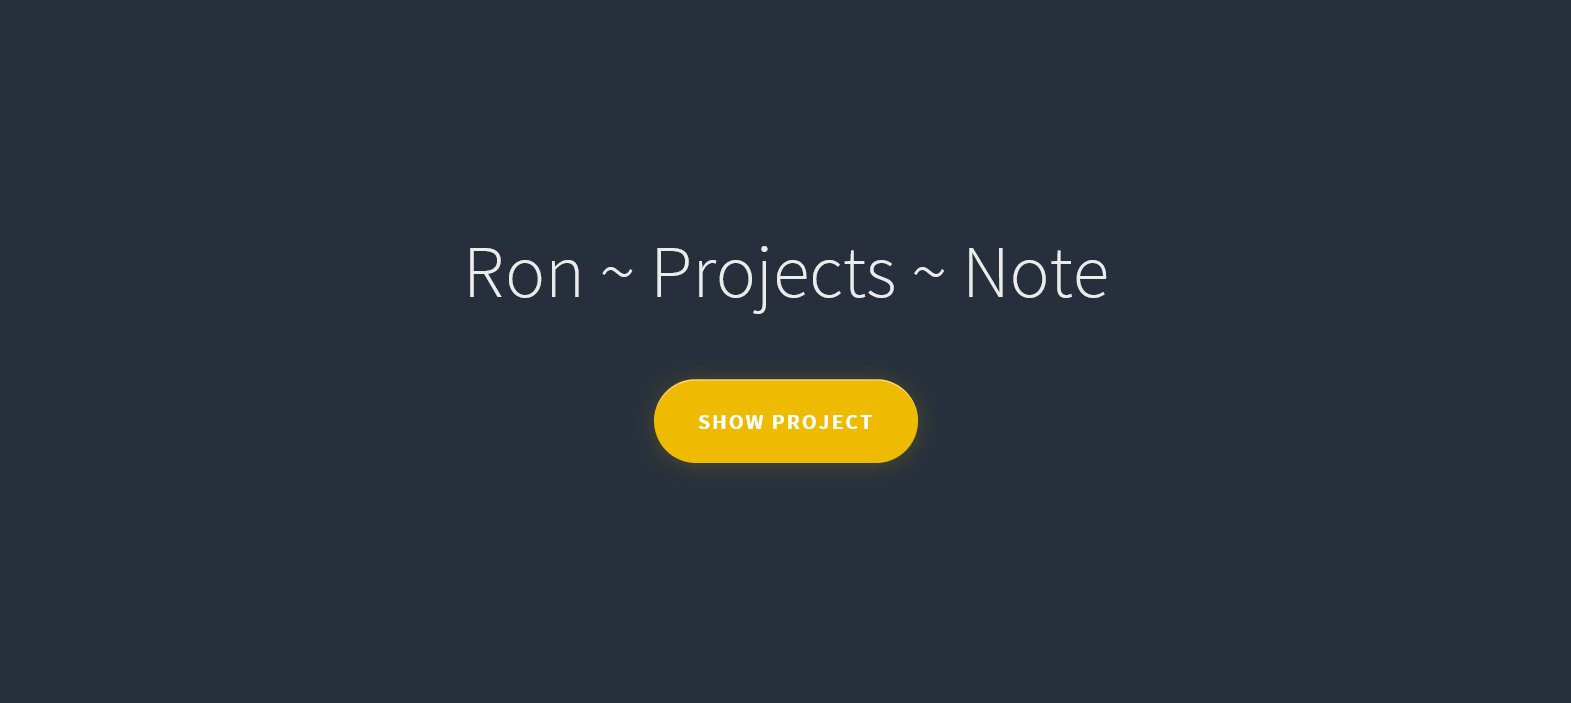
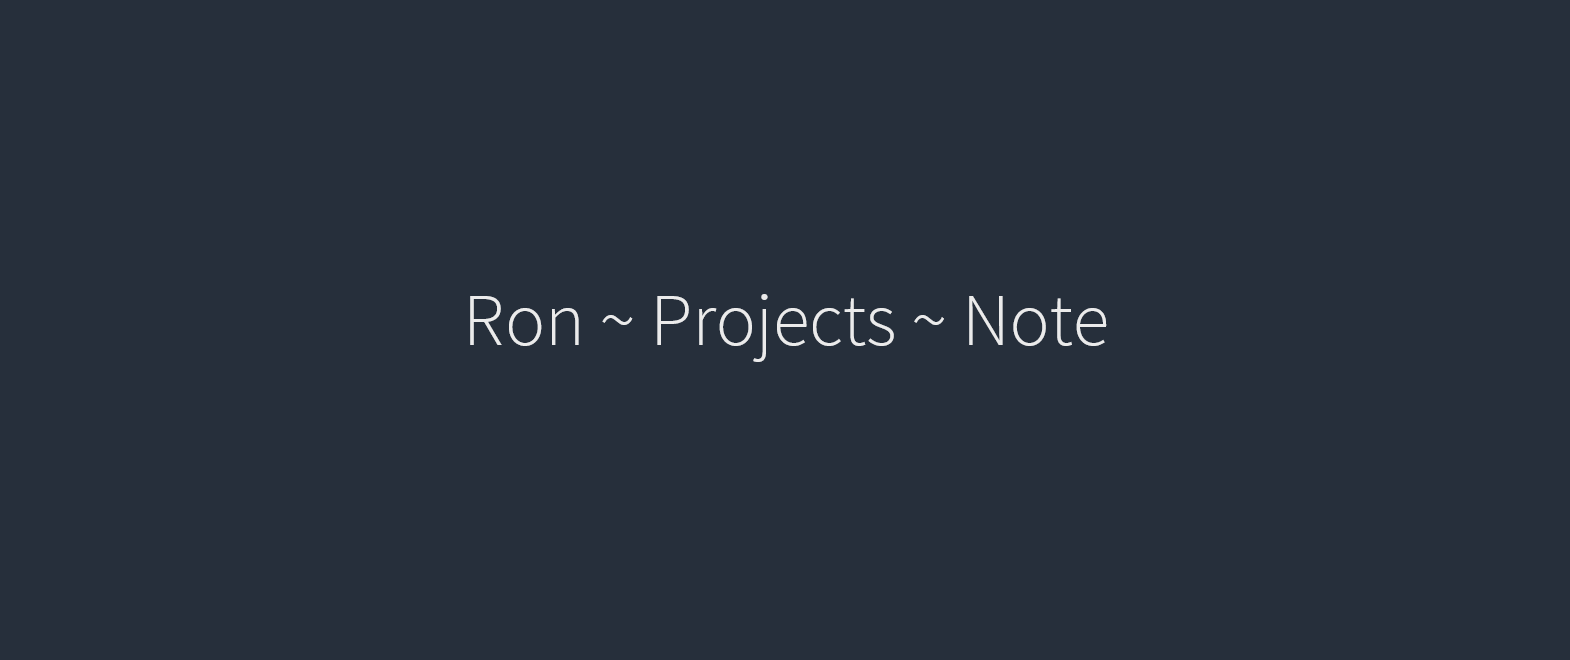
add email

Changed region(s): [[0.2809, 0.3333, 0.7178, 0.6667], [0.593, 0.4545, 0.7178, 0.5455], [0.2809, 0.4545, 0.3745, 0.5455]]

diff --git a/css/style.css b/css/style.css
@@ -18,13 +18,86 @@ html {
 body {
   font-size: 1.6rem;
   font-family: "Source Sans Pro", sans-serif;
-  color: #0f1926;
-  background-color: #ebebeb;
+  color: #262f3b;
 }
 
 a {
   color: #ffffff;
   text-decoration: none;
+}
+
+
+.tooltip {
+text-align: left;
+width: 160px;
+border-radius: 10px;
+font-size: small;
+background: #00beee ;
+top: 100%;
+color: white;
+display: block;
+left: -20px;
+opacity: 0;
+padding: 20px;
+pointer-events: none;
+position: absolute;
+-webkit-transform: translateY(10px);
+  -moz-transform: translateY(10px);
+  -ms-transform: translateY(10px);
+   -o-transform: translateY(10px);
+    transform: translateY(10px);
+-webkit-transition: all .25s ease-out;
+  -moz-transition: all .25s ease-out;
+  -ms-transition: all .25s ease-out;
+   -o-transition: all .25s ease-out;
+    transition: all .25s ease-out;
+-webkit-box-shadow: 2px 2px 6px rgba(0, 0, 0, 0.28);
+  -moz-box-shadow: 2px 2px 6px rgba(0, 0, 0, 0.28);
+  -ms-box-shadow: 2px 2px 6px rgba(0, 0, 0, 0.28);
+   -o-box-shadow: 2px 2px 6px rgba(0, 0, 0, 0.28);
+    box-shadow: 2px 2px 6px rgba(0, 0, 0, 0.28);
+}
+
+ .tooltip:before {
+bottom: -20px;
+content: " ";
+display: block;
+height: 200px;
+left: 0;
+position: absolute;
+}
+
+.tooltip:after {
+border-left: solid transparent 10px;
+border-right: solid transparent 10px;
+border-bottom: solid #00beee  10px;
+top: -10px;
+content: " ";
+height: 0;
+left: 50%;
+margin-left: -34px;
+position: absolute;
+width: 0;
+}
+
+.wrap:hover .tooltip {
+opacity: 1;
+pointer-events: auto;
+width: 160px;
+-webkit-transform: translateY(0px);
+  -moz-transform: translateY(0px);
+  -ms-transform: translateY(0px);
+   -o-transform: translateY(0px);
+    transform: translateY(0px);
+}
+
+/* IE can just show/hide with no transition */
+.lte8 .wrapper .tooltip {
+display: none;
+}
+
+.lte8 .wrapper:hover .tooltip {
+display: block;
 }
 
 
@@ -40,6 +113,7 @@ h1 > a:before {
   transform: scaleX(0);
   transition: .25s linear;
 }
+
 
 a.bt1:before {
   background: #eebb00;
@@ -82,7 +156,6 @@ column-count: 2;
   border: none;
   font-size: .9em;
   border-radius: 4px;
-  color: white;
 }
 
 /* -------------------------------- 
@@ -656,7 +729,6 @@ Project slider navigation
   left: 0;
   height: 60px;
   width: 4%;
-  background: url(../img/cd-arrow.svg) no-repeat center center;
   -webkit-transition: opacity 0.2s 0s, visibility 0s 0s;
   -moz-transition: opacity 0.2s 0s, visibility 0s 0s;
   transition: opacity 0.2s 0s, visibility 0s 0s;

diff --git a/index.html b/index.html
@@ -17,7 +17,13 @@
 <body>
 	<div class="cd-intro-block">
 		<div class="content-wrapper">
-			<h1>Ron ~ <a href="#0" data-action="show-projects" class="bt1">Projects</a> ~ <a href="note/index.html" class="bt2">Notes</a> </h1>			
+			<h1>
+			<span class="wrap">Ron
+				<span class="tooltip">contact:<br>ronwu@frontier.com
+				</span>
+			</span> ~ <a href="#0" data-action="show-projects" class="bt1">Projects</a> ~ <a href="note/index.html" class="bt2">Notes</a> </h1>		
+
+				
 
 		</div>
 	</div> <!-- .cd-intro-block -->
@@ -97,18 +103,18 @@ high_returns = recent_returns.percentile_between(90,100,mask=high_dollar_volume)
 		
 
 
-			<p>I have learned many advanced techniques and tried to incorporate them into the simple mean-reversion and momemtum algorithm:</p>
+			<p>I have learned many advanced techniques and tried to incorporate them into the simple mean-reversion and momemtum algorithm: </p>
 
 			<P>&#9658 Mechine Learning: <a href="https://psychsignal.com/" target="_blank">PsychSignal</a>'s stockTwits trader mood, run Twitter feed in <a href="https://alchemyapi.com/" target="_blank">Alchemy</a> api (NLP), chart/data pattern recognition &amp categorization (supervised/unsupervised learning).</P>
 
-			<p>&#9658 Numerical Method: modern portfolio theory, dynamic mode decomposition (PCA), random matrix theory.
+			<p>&#9658 Numerical Methods: modern portfolio theory, dynamic mode decomposition (PCA), random matrix theory.
 			</p>
 
 			<p>&#9658 Web/App design: experienced using Python, C++, C#, R, SQL, and JavaScript, I built high-quality financial apps for porfolio manager and traders to automate their works.</p>
 
 
 			<em>2. Paper-Money Option Trading</em>
-			<p>	While learning portfolio theory with a goal in meeting practice, I created trading algorithms (see above); while learning derivatives, I traded paperMoney options from <a href="https://www.tdameritrade.com/">TD Ameritrade</a>. 
+			<p>	While learning portfolio theory with a goal in meeting practice, I created trading algorithms; while learning derivatives, I traded paperMoney options from <a href="https://www.tdameritrade.com/">TD Ameritrade</a>. 
 			</p>
 			<p>
 				<img src="proj/finance/aapl.png">

diff --git a/README.md b/README.md
@@ -1,2 +1,2 @@
-#My Portfolio Page
+#[My Portfolio Page](http://ronnnwu.github.io/)
 ![screen shot](http://ronnnwu.github.io/img/screen.png)
